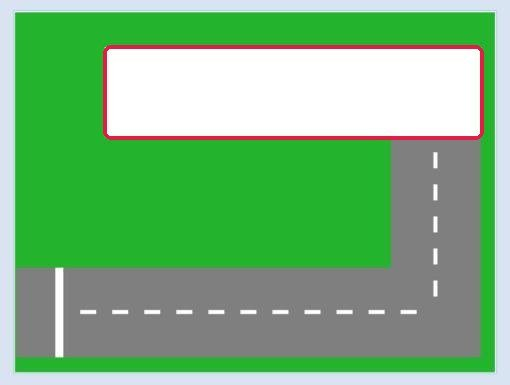
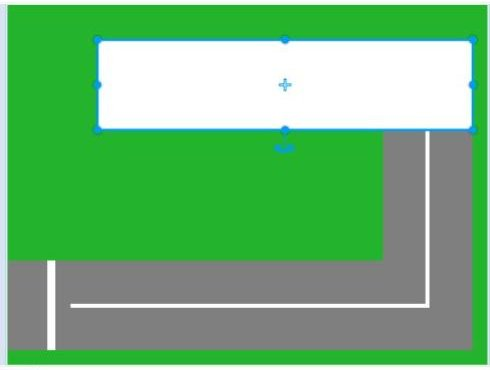
S12: recuadro inicial con los dos fondos terminados y raya central recta con rectángulo fino
Claude-Session: https://claude.ai/code/session_011GqdD5bPBeahy9bqzqMjcH

Changed region(s): [[0.0, 0.0, 1.0, 1.0], [0.551, 0.2081, 0.6122, 0.2378]]

diff --git a/trimestres/t1-scratch/sesiones/s12.html b/trimestres/t1-scratch/sesiones/s12.html
@@ -170,6 +170,8 @@
 <a class="abrir-scratch" href="https://scratch.mit.edu/projects/editor/" target="_blank" rel="noopener">🐱 Abrir Scratch en otra pestaña</a>
 <p class="consejo">Consejo: deja Scratch a un lado de la pantalla y esta página al otro. Así no tienes que ir y venir.</p>
 
+<div style="border:2px solid #1B4F8A;background:#F3F7FC;border-radius:12px;padding:14px 18px;margin:6px 0 22px"><h2 style="margin:0 0 6px;font-size:1.3rem;color:#1B4F8A">🎯 Hoy dibujas estos dos fondos</h2><p style="margin:0 0 10px">Mira las dos imágenes antes de empezar y vuelve a ellas cuando no sepas por dónde vas. Al terminar, tu proyecto tiene que parecerse a esto.</p><div style="display:flex;flex-wrap:wrap;gap:16px"><figure style="flex:1 1 280px;margin:0"><img class="captura" src="../img/s12/objetivo-1.jpg" alt="Fondo 1: la carretera de tres tramos con la salida, la raya del centro y el coche en la salida" style="display:block;width:100%;height:auto;border:1px solid #CFD8DC;border-radius:8px"><figcaption style="font-size:.9rem;margin-top:6px"><strong>Fondo 1 · La carretera</strong> (apartados 3.1 y 3.2): tres tramos, la salida, la raya del centro y el coche esperando en la salida.</figcaption></figure><figure style="flex:1 1 280px;margin:0"><img class="captura" src="../img/s12/objetivo-2.jpg" alt="Fondo 2: un ejemplo de carretera difícil de cinco tramos" style="display:block;width:100%;height:auto;border:1px solid #CFD8DC;border-radius:8px"><figcaption style="font-size:.9rem;margin-top:6px"><strong>Fondo 2 · La carretera difícil</strong> (apartado 3.3), un ejemplo: <strong>la tuya puede ser distinta</strong>, con al menos cinco tramos y que el coche quepa.</figcaption></figure></div></div>
+
 <h2><span class="h2n">1</span>El editor de pintura</h2>
 <ul class="clave-lista">
   <li><b>Escenario y Fondos.</b> Lo que se dibuja con el Escenario seleccionado es el <strong>fondo</strong>: no se mueve ni tiene programas de movimiento. Se dibuja en la pestaña <em>Fondos</em>.</li>
@@ -209,9 +211,9 @@
 <ol class="paso-lista">
   <li><span class="p">Paso 1</span><span>Antes de cambiar de color, <strong>haz clic fuera del recuadro de dibujo</strong>, en la zona de alrededor. Después cambia el color de <strong>Rellenar</strong> a blanco: <strong>Saturación 0, Brillo 100</strong>.</span></li>
   <li><span class="p">Paso 2</span><span>Con el <strong>Rectángulo</strong>, dibuja la línea de salida: un rectángulo muy estrecho que cruce el tramo de abajo, cerca del borde izquierdo.</span></li>
-  <li><span class="p">Paso 3</span><span>Dibuja la raya del centro con rectángulos pequeños y alargados, separados entre sí, siguiendo los tres tramos. Haz clic fuera del dibujo después de cada uno.<div class="aviso-ojo">
+  <li><span class="p">Paso 3</span><span>Dibuja la raya del centro, también con el <strong>Rectángulo</strong>: un rectángulo <strong>muy fino y largo</strong> por el centro de cada tramo, de punta a punta. El rectángulo siempre sale recto, aunque se te tuerza un poco la mano: como mucho saldrá algo más gordo. Haz clic fuera del dibujo después de cada uno.<div class="aviso-ojo">
   <h3>⚠ El rectángulo recién dibujado sigue seleccionado</h3>
-<p>Hasta que haces clic fuera, el último rectángulo sigue seleccionado, con puntitos azules alrededor. Si cambias el color en ese momento, <strong>cambia el color de ese rectángulo</strong>, no el del siguiente. Aquí el tramo de arriba se ha vuelto blanco por eso. Se arregla con <em>deshacer</em>, o con el bote de pintura en gris sobre el tramo.</p><figure style="margin:10px 0 4px"><img class="captura" src="../img/s12/p8-ojo.jpg" alt="El tramo de arriba se ha vuelto blanco al cambiar de color sin hacer clic fuera" loading="lazy" style="display:block;max-width:100%;height:auto;border:1px solid #CFD8DC;border-radius:8px"><figcaption style="font-size:.85rem;color:#555D6B;margin-top:4px">El tramo de arriba se ha vuelto blanco al cambiar de color sin hacer clic fuera</figcaption></figure>
+<p>Hasta que haces clic fuera, el último rectángulo sigue seleccionado, con puntitos azules alrededor. Si cambias el color en ese momento, <strong>cambia el color de ese rectángulo</strong>, no el del siguiente. Aquí el tramo de arriba, recién dibujado, se ha vuelto blanco por eso. Se arregla con <em>deshacer</em>.</p><figure style="margin:10px 0 4px"><img class="captura" src="../img/s12/p8-ojo.jpg" alt="El tramo de arriba, todavía seleccionado, se ha vuelto blanco al cambiar de color" loading="lazy" style="display:block;max-width:100%;height:auto;border:1px solid #CFD8DC;border-radius:8px"><figcaption style="font-size:.85rem;color:#555D6B;margin-top:4px">El tramo de arriba, todavía seleccionado, se ha vuelto blanco al cambiar de color</figcaption></figure>
 </div><figure style="margin:10px 0 4px"><img class="captura" src="../img/s12/p9-final.jpg" alt="Así queda el fondo: césped, carretera, salida y raya del centro" loading="lazy" style="display:block;max-width:100%;height:auto;border:1px solid #CFD8DC;border-radius:8px"><figcaption style="font-size:.85rem;color:#555D6B;margin-top:4px">Así queda el fondo: césped, carretera, salida y raya del centro</figcaption></figure></span></li>
   <li><span class="p">Paso 4</span><span>Añade el coche: botón <strong>Elige un objeto</strong> (el del gato, abajo a la derecha), escribe <strong>Convertible</strong> y elige el descapotable morado. Borra el gato.</span></li>
   <li><span class="p">Paso 5</span><span>Con el coche seleccionado, escribe <strong>35</strong> en la casilla <strong>Tamaño</strong>, debajo del escenario. Es el tamaño que tendrá en el juego.</span></li>

diff --git a/documentacion/generadores-t1/gen_s12_s16.py b/documentacion/generadores-t1/gen_s12_s16.py
@@ -112,14 +112,16 @@ ACT12_1 = (
         '<strong>Saturación 0, Brillo 100</strong>.',
         'Con el <strong>Rectángulo</strong>, dibuja la línea de salida: un rectángulo muy estrecho '
         'que cruce el tramo de abajo, cerca del borde izquierdo.',
-        'Dibuja la raya del centro con rectángulos pequeños y alargados, separados entre sí, '
-        'siguiendo los tres tramos. Haz clic fuera del dibujo después de cada uno.'
+        'Dibuja la raya del centro, también con el <strong>Rectángulo</strong>: un rectángulo '
+        '<strong>muy fino y largo</strong> por el centro de cada tramo, de punta a punta. El '
+        'rectángulo siempre sale recto, aunque se te tuerza un poco la mano: como mucho saldrá '
+        'algo más gordo. Haz clic fuera del dibujo después de cada uno.'
         + ojo('El rectángulo recién dibujado sigue seleccionado',
               '<p>Hasta que haces clic fuera, el último rectángulo sigue seleccionado, con puntitos '
               'azules alrededor. Si cambias el color en ese momento, <strong>cambia el color de ese '
-              'rectángulo</strong>, no el del siguiente. Aquí el tramo de arriba se ha vuelto blanco '
-              'por eso. Se arregla con <em>deshacer</em>, o con el bote de pintura en gris sobre el '
-              'tramo.</p>' + captura('p8-ojo.jpg', 'El tramo de arriba se ha vuelto blanco al cambiar de color sin hacer clic fuera'))
+              'rectángulo</strong>, no el del siguiente. Aquí el tramo de arriba, recién dibujado, se '
+              'ha vuelto blanco por eso. Se arregla con <em>deshacer</em>.</p>'
+              + captura('p8-ojo.jpg', 'El tramo de arriba, todavía seleccionado, se ha vuelto blanco al cambiar de color'))
         + captura('p9-final.jpg', 'Así queda el fondo: césped, carretera, salida y raya del centro'),
         'Añade el coche: botón <strong>Elige un objeto</strong> (el del gato, abajo a la derecha), '
         'escribe <strong>Convertible</strong> y elige el descapotable morado. Borra el gato.',
@@ -154,6 +156,29 @@ ACT12_1 = (
 )
 
 
+OBJETIVO12 = (
+    '<div style="border:2px solid #1B4F8A;background:#F3F7FC;border-radius:12px;padding:14px 18px;'
+    'margin:6px 0 22px">'
+    '<h2 style="margin:0 0 6px;font-size:1.3rem;color:#1B4F8A">🎯 Hoy dibujas estos dos fondos</h2>'
+    '<p style="margin:0 0 10px">Mira las dos imágenes antes de empezar y vuelve a ellas cuando no '
+    'sepas por dónde vas. Al terminar, tu proyecto tiene que parecerse a esto.</p>'
+    '<div style="display:flex;flex-wrap:wrap;gap:16px">'
+    '<figure style="flex:1 1 280px;margin:0"><img class="captura" src="%sobjetivo-1.jpg" '
+    'alt="Fondo 1: la carretera de tres tramos con la salida, la raya del centro y el coche en la salida" '
+    'style="display:block;width:100%%;height:auto;border:1px solid #CFD8DC;border-radius:8px">'
+    '<figcaption style="font-size:.9rem;margin-top:6px"><strong>Fondo 1 · La carretera</strong> '
+    '(apartados %d.1 y %d.2): tres tramos, la salida, la raya del centro y el coche esperando en '
+    'la salida.</figcaption></figure>'
+    '<figure style="flex:1 1 280px;margin:0"><img class="captura" src="%sobjetivo-2.jpg" '
+    'alt="Fondo 2: un ejemplo de carretera difícil de cinco tramos" '
+    'style="display:block;width:100%%;height:auto;border:1px solid #CFD8DC;border-radius:8px">'
+    '<figcaption style="font-size:.9rem;margin-top:6px"><strong>Fondo 2 · La carretera difícil</strong> '
+    '(apartado %d.3), un ejemplo: <strong>la tuya puede ser distinta</strong>, con al menos cinco '
+    'tramos y que el coche quepa.</figcaption></figure>'
+    '</div></div>' % (IMG12, A12, A12, IMG12, A12)
+)
+
+
 def _escala12(a, filas):
     tr = ''.join('<tr><td>%s</td><td class="nota">%s</td></tr>' % f for f in filas)
     return ('<div class="partes escala"><p><strong>Cómo se valora.</strong> Todo va en el mismo '
@@ -171,6 +196,7 @@ s12 = pagina(
     'Es tu primer dibujo en Scratch. En la próxima clase (Parte 2) programarás un coche que la '
     'recorre.',
     [
+        (None, OBJETIVO12),
         ('El editor de pintura',
          claves([
              ('Escenario y Fondos',
